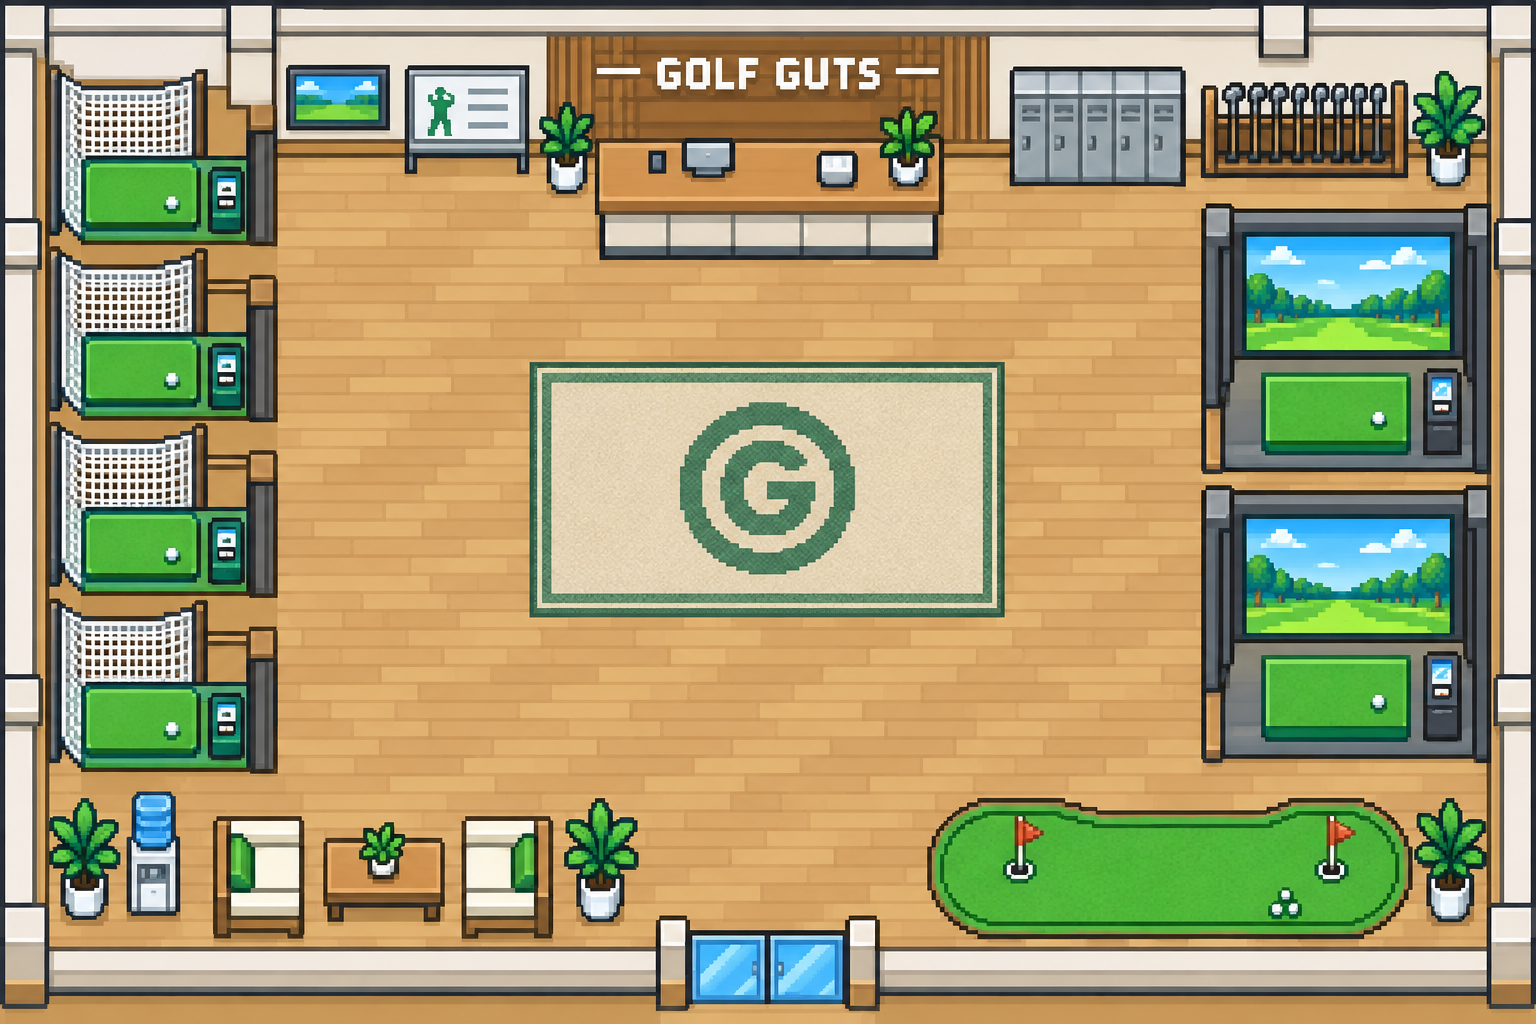
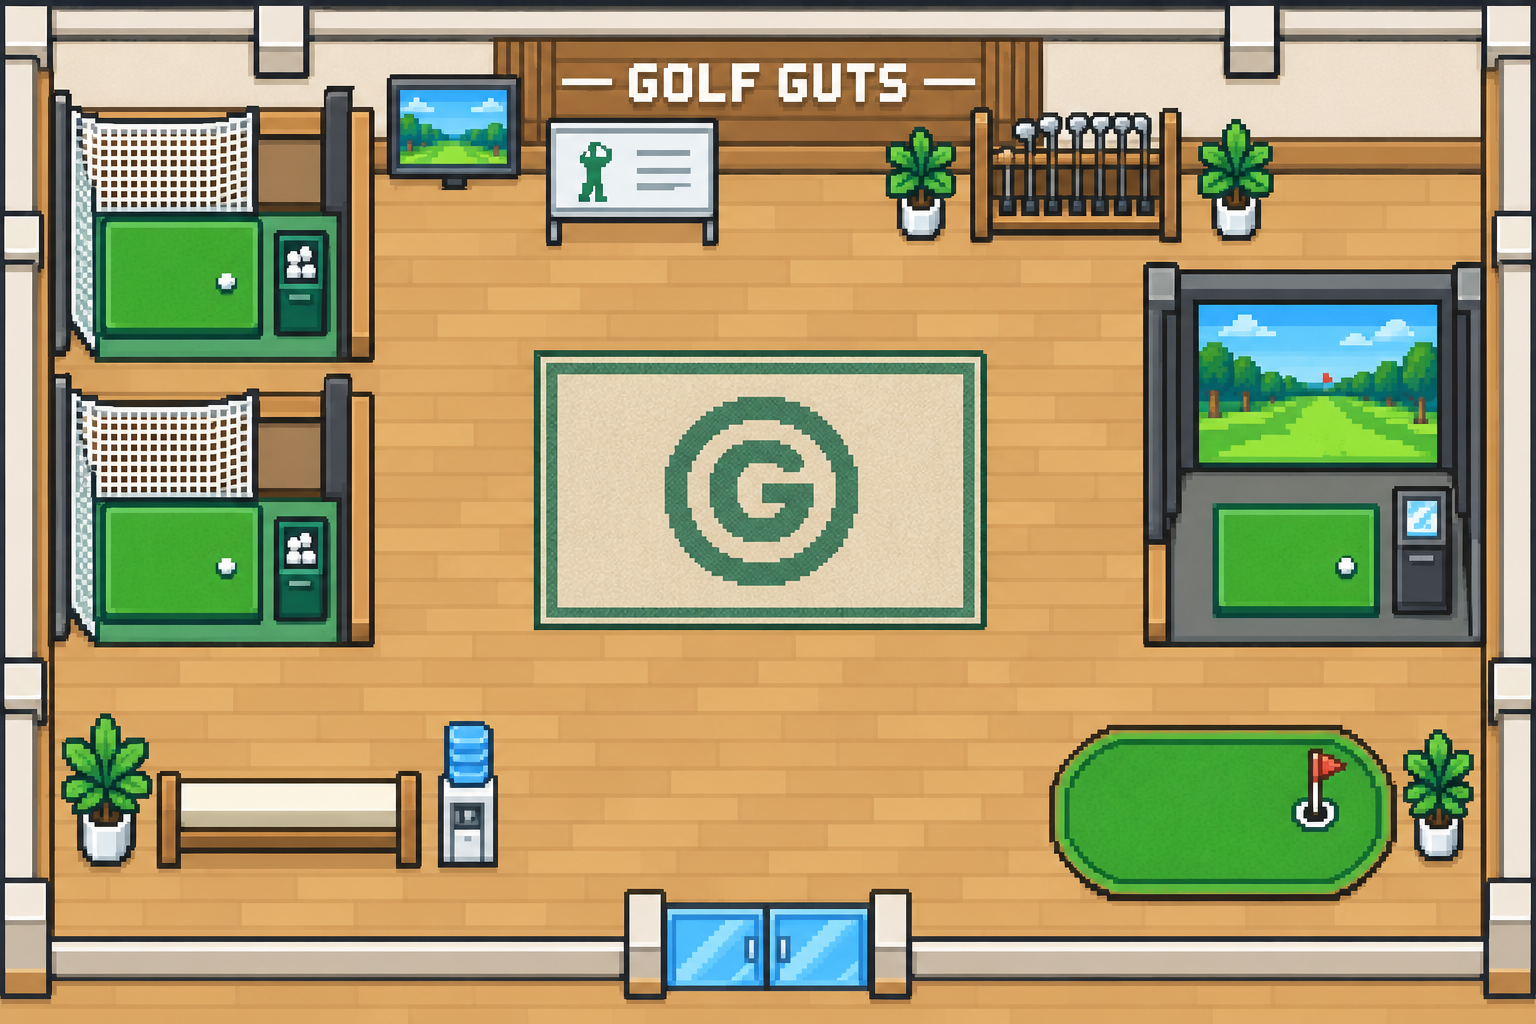
GOLF GUTS の内装を 18×12 の新しい一枚絵に差し替え（受付なし、4人は中央のラグに1列）
Claude-Session: https://claude.ai/code/session_018VDSYCPciSbMvR8kKaJDnr

diff --git a/js/data.js b/js/data.js
@@ -150,7 +150,7 @@ const DATA = {
         { x: 6, y: 7, kind: 'warp', to: { map: 'lab', x: 8, y: 8, dir: 'up' } },
         { x: 4, y: 14, kind: 'warp', to: { map: 'heal', x: 4, y: 4, dir: 'up' } },
         { x: 17, y: 14, kind: 'warp', to: { map: 'shop', x: 4, y: 4, dir: 'up' } },
-        { x: 29, y: 7, kind: 'warp', to: { map: 'golfguts', x: 14, y: 17, dir: 'up' } },
+        { x: 29, y: 7, kind: 'warp', to: { map: 'golfguts', x: 8, y: 10, dir: 'up' } },
         { x: 13, y: 0, kind: 'warp', to: { map: 'road', x: 7, y: 20, dir: 'up' } },
         { x: 9, y: 11, kind: 'sign', text: 'ガッツタウン\nゴルフ場の となりの しずかな町' },
         { x: 12, y: 1, kind: 'sign', text: 'この先 ガーデンロード\nガーデンプレースまで つづく' },
@@ -169,51 +169,43 @@ const DATA = {
     },
     golfguts: {
       name: 'GOLF GUTS', indoor: true, bgm: 'lab', image: 'assets/maps/golfguts_room.png',
-      // 一枚絵マップ（ChatGPT製 assets/src/golfguts_room_src.png → 480×320 ドット、30×20 マス）。rows は当たり判定だけ（# 進めない . 床 C カウンター（越しに話せる） m 出入口）
-      // 左：打席ブース×4、奥：受付・ロッカー・クラブラック、右：シミュレーター×2、手前：ラウンジとパター練習グリーン
+      // 一枚絵マップ（ChatGPT製 assets/src/golfguts_room_src.png → 288×192 ドット、18×12 マス）。rows は当たり判定だけ（# 進めない . 床 m 出入口）
+      // 左：打席ブース×2、奥：モニター・ホワイトボード・クラブラック、右：シミュレーター、手前：ベンチ・ウォーターサーバー・パター練習グリーン
       rows: [
-        '##############################',
-        '##############################',
-        '###########.......############',
-        '######.....#################.#',
-        '######.....CCCCCCCC....#######',
-        '######.................#######',
-        '######.................#######',
-        '######.................#######',
-        '######.................#######',
-        '######.................#######',
-        '######.................#######',
-        '######.................#######',
-        '######.................#######',
-        '######.................#######',
-        '######.................#######',
-        '#.................##########.#',
-        '###.########......############',
-        '###.########......############',
-        '##############mm##############',
-        '##############################',
+        '##################',
+        '##################',
+        '#####.###.#####..#',
+        '#####........#####',
+        '#####........#####',
+        '#####........#####',
+        '#####........#####',
+        '#####........#####',
+        '##...#......######',
+        '######......######',
+        '#...........######',
+        '########mm########',
       ],
       objects: [],
       events: [
-        { x: 14, y: 18, kind: 'warp', to: { map: 'town', x: 29, y: 8, dir: 'down' } },
-        { x: 15, y: 18, kind: 'warp', to: { map: 'town', x: 29, y: 8, dir: 'down' } },
+        { x: 8, y: 11, kind: 'warp', to: { map: 'town', x: 29, y: 8, dir: 'down' } },
+        { x: 9, y: 11, kind: 'warp', to: { map: 'town', x: 29, y: 8, dir: 'down' } },
         // GOLF GUTS の4人（正面向きで1列。セリフは仮）
-        { x: 12, y: 9, kind: 'npc', img: 'hori', sprite: 'npc_man', dir: 'down', name: 'ホリ',
+        { x: 7, y: 5, kind: 'npc', img: 'hori', sprite: 'npc_man', dir: 'down', name: 'ホリ',
           text: 'おれは ホリ。\nスイングは リズムが いのちだ。' },
-        { x: 13, y: 9, kind: 'npc', img: 'kuga', sprite: 'npc_man', dir: 'down', name: 'クガ',
+        { x: 8, y: 5, kind: 'npc', img: 'kuga', sprite: 'npc_man', dir: 'down', name: 'クガ',
           text: 'クガだ。\nまずは グリップから みなおせ。' },
-        { x: 14, y: 9, kind: 'npc', img: 'bunta', sprite: 'npc_man', dir: 'down', name: 'ブンタ',
+        { x: 9, y: 5, kind: 'npc', img: 'bunta', sprite: 'npc_man', dir: 'down', name: 'ブンタ',
           text: 'ブンタっていうんだ。\nここで 毎日 ボールを うってる。' },
-        { x: 15, y: 9, kind: 'npc', img: 'shinji', sprite: 'npc_man', dir: 'down', name: 'シンジ',
+        { x: 10, y: 5, kind: 'npc', img: 'shinji', sprite: 'npc_man', dir: 'down', name: 'シンジ',
           text: 'シンジです。\nパターは きもちで うつもんだよ。' },
         { x: 7, y: 2, kind: 'look', text: 'ホワイトボード。\nスイングの 図が かいてある。' },
-        { x: 6, y: 2, kind: 'look', text: 'モニターに コースの 映像が ながれている。' },
-        { x: 21, y: 2, kind: 'look', text: 'ロッカー。\nかぎが かかっている。' },
-        { x: 25, y: 2, kind: 'look', text: 'ゴルフクラブが ずらりと ならんでいる。' },
-        { x: 2, y: 17, kind: 'look', text: 'ウォーターサーバー。\nつめたい 水が のめる。' },
-        { x: 22, y: 16, kind: 'look', text: 'パターの 練習グリーン。\nカップが 2つ ある。' },
+        { x: 5, y: 1, kind: 'look', text: 'モニターに コースの 映像が ながれている。' },
+        { x: 12, y: 2, kind: 'look', text: 'ゴルフクラブが ずらりと ならんでいる。' },
+        { x: 5, y: 9, kind: 'look', text: 'ウォーターサーバー。\nつめたい 水が のめる。' },
+        { x: 3, y: 9, kind: 'look', text: '木の ベンチ。\nすわって 休めそうだ。' },
+        { x: 13, y: 9, kind: 'look', text: 'パターの 練習グリーン。\nカップが 1つ ある。' },
         { x: 3, y: 4, kind: 'look', text: '打席ブース。\nネットに むかって ボールを うつ。' },
-        { x: 25, y: 7, kind: 'look', text: 'ゴルフシミュレーター。\nスクリーンに コースが うつっている。' },
+        { x: 14, y: 6, kind: 'look', text: 'ゴルフシミュレーター。\nスクリーンに コースが うつっている。' },
       ],
     },
     lab: {

diff --git a/tools/golfguts-room.py b/tools/golfguts-room.py
@@ -1,9 +1,9 @@
 #!/usr/bin/env python3
-"""GOLF GUTS の内装一枚絵（ChatGPT製 assets/src/golfguts_room_src.png 1536×1024）を 480×320 ドット（30×20 マス）に落として assets/maps/golfguts_room.png にする"""
+"""GOLF GUTS の内装一枚絵（ChatGPT製 assets/src/golfguts_room_src.png 1536×1024）を 288×192 ドット（18×12 マス）に落として assets/maps/golfguts_room.png にする"""
 from PIL import Image
 import numpy as np
 im = Image.open('assets/src/golfguts_room_src.png').convert('RGB'); A = np.asarray(im).astype(int); H, W = A.shape[:2]
-tw, th = 480, 320; bx, by = W / tw, H / th; r = max(1, int(min(bx, by) * 0.3))
+tw, th = 288, 192; bx, by = W / tw, H / th; r = max(1, int(min(bx, by) * 0.3))
 out = np.zeros((th, tw, 3), dtype=np.uint8)
 for j in range(th):
     cy = int((j + 0.5) * by)
